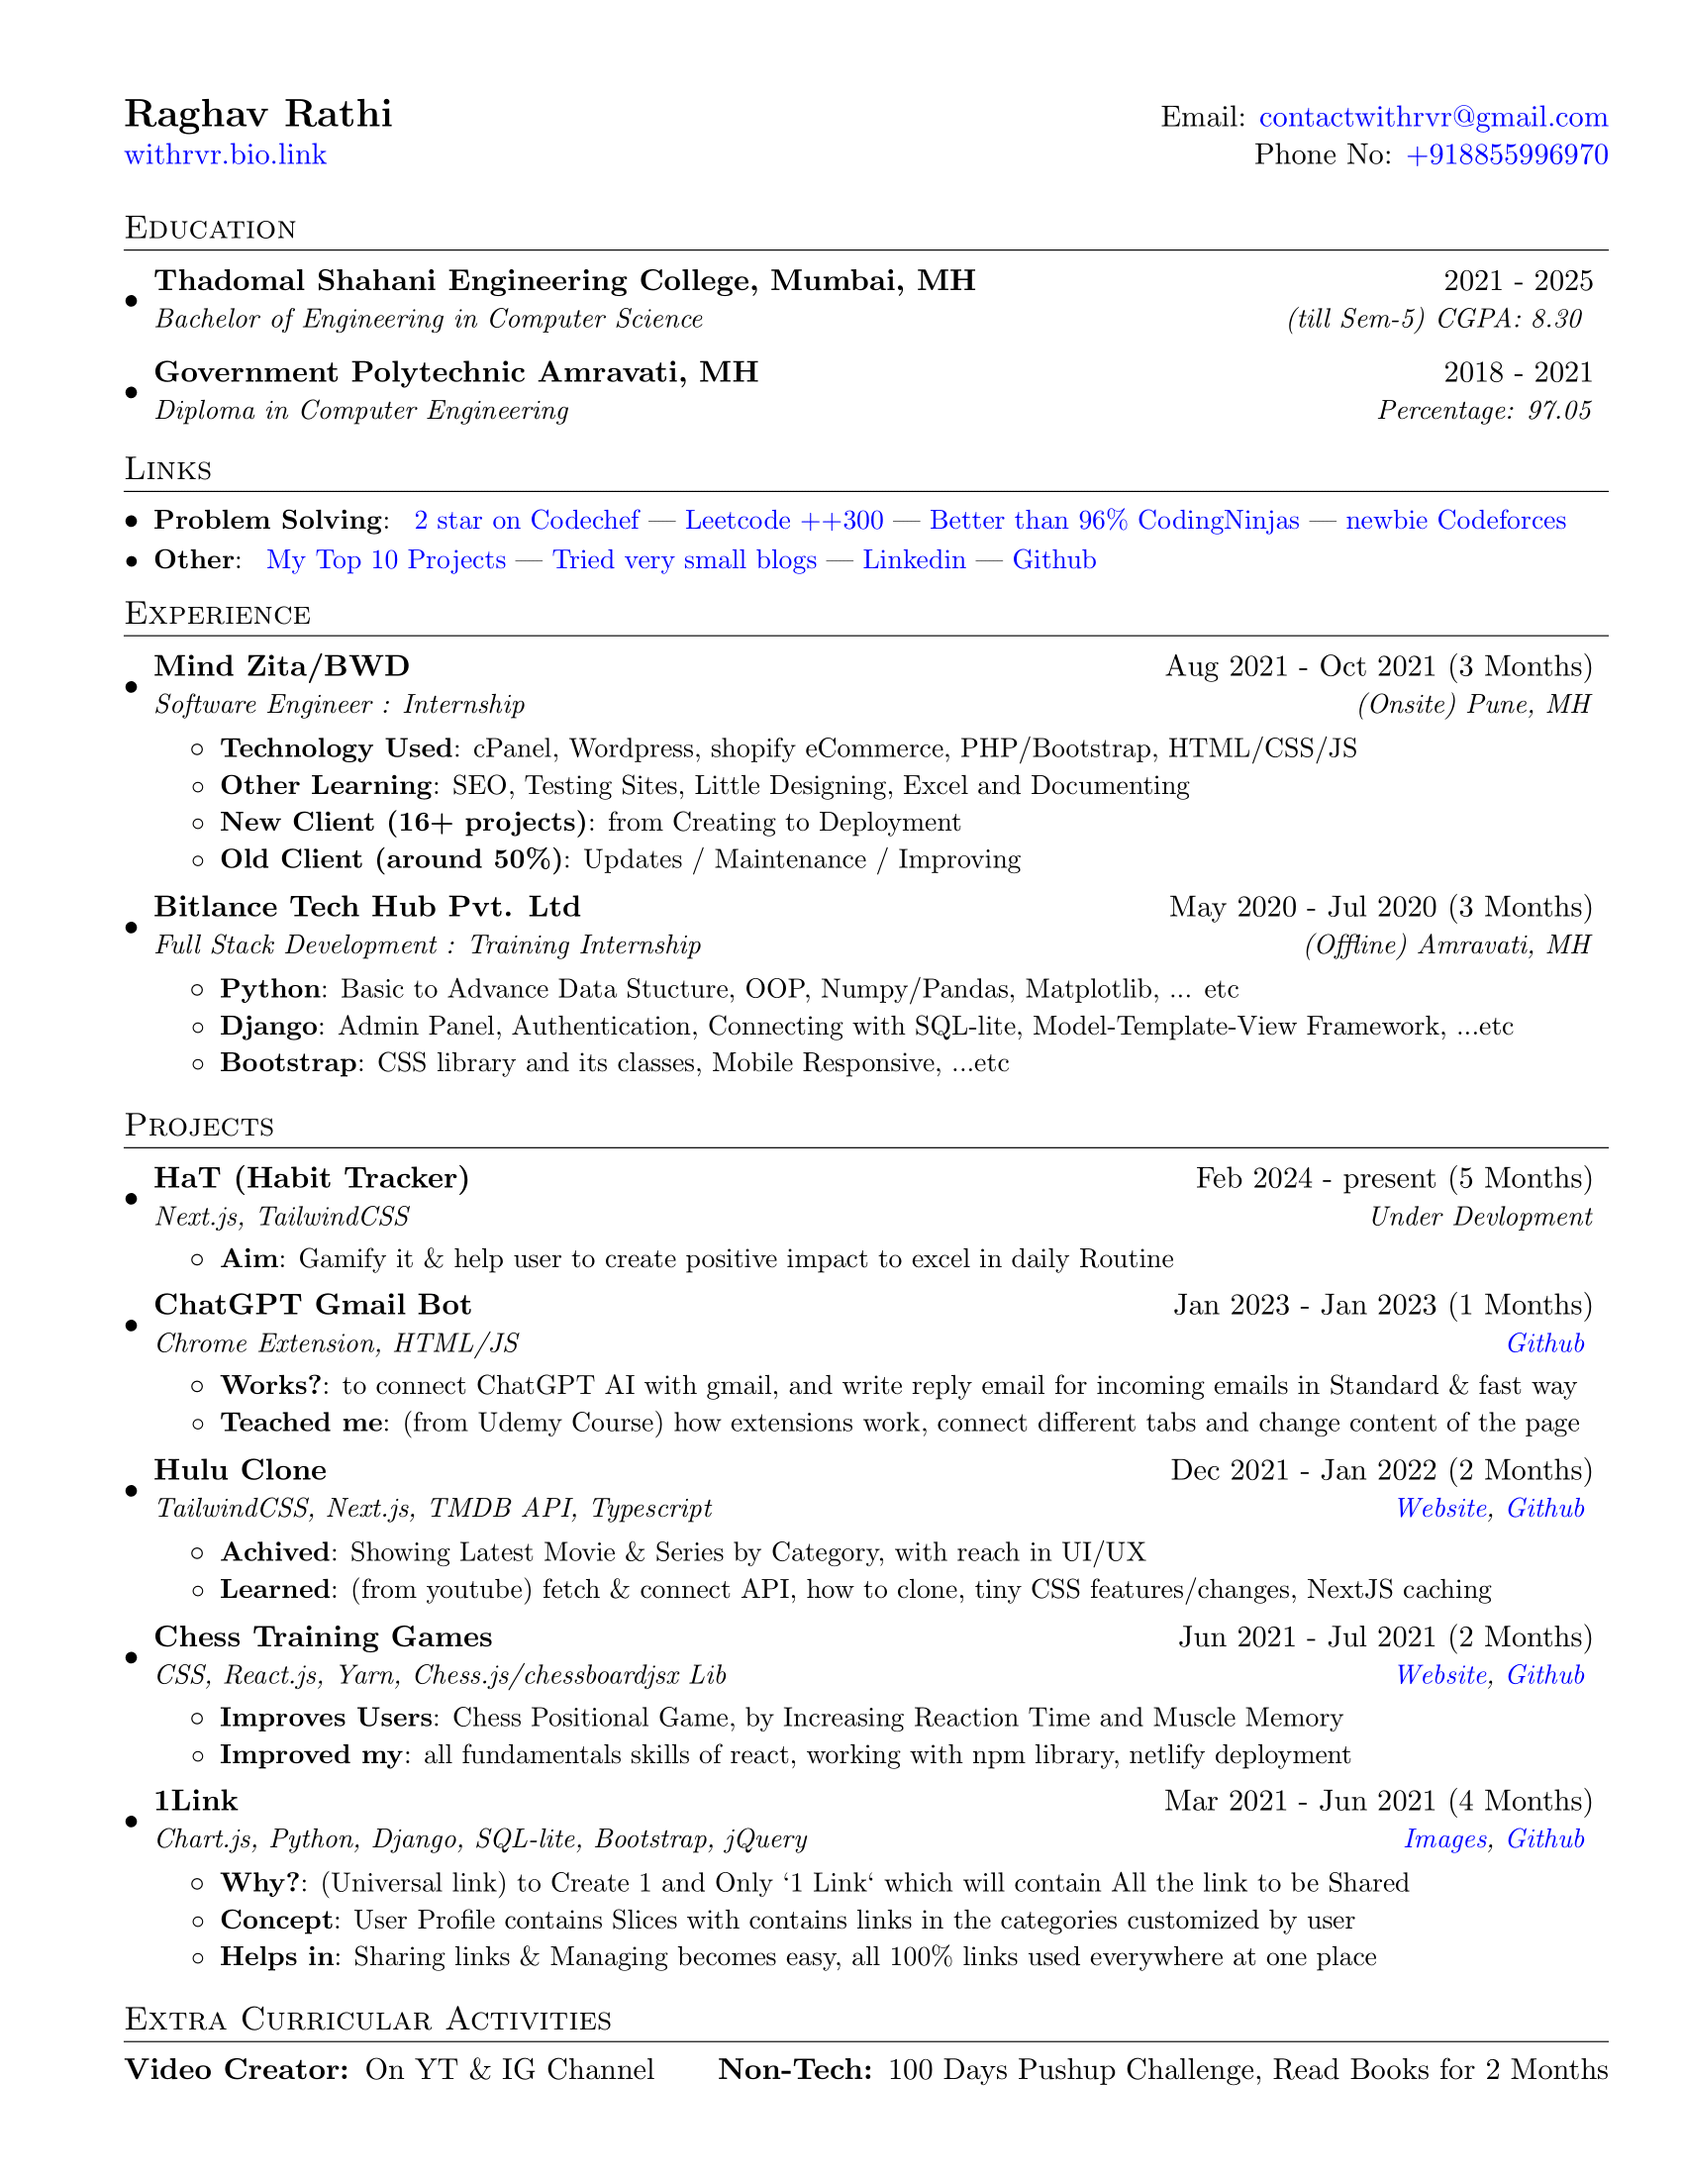
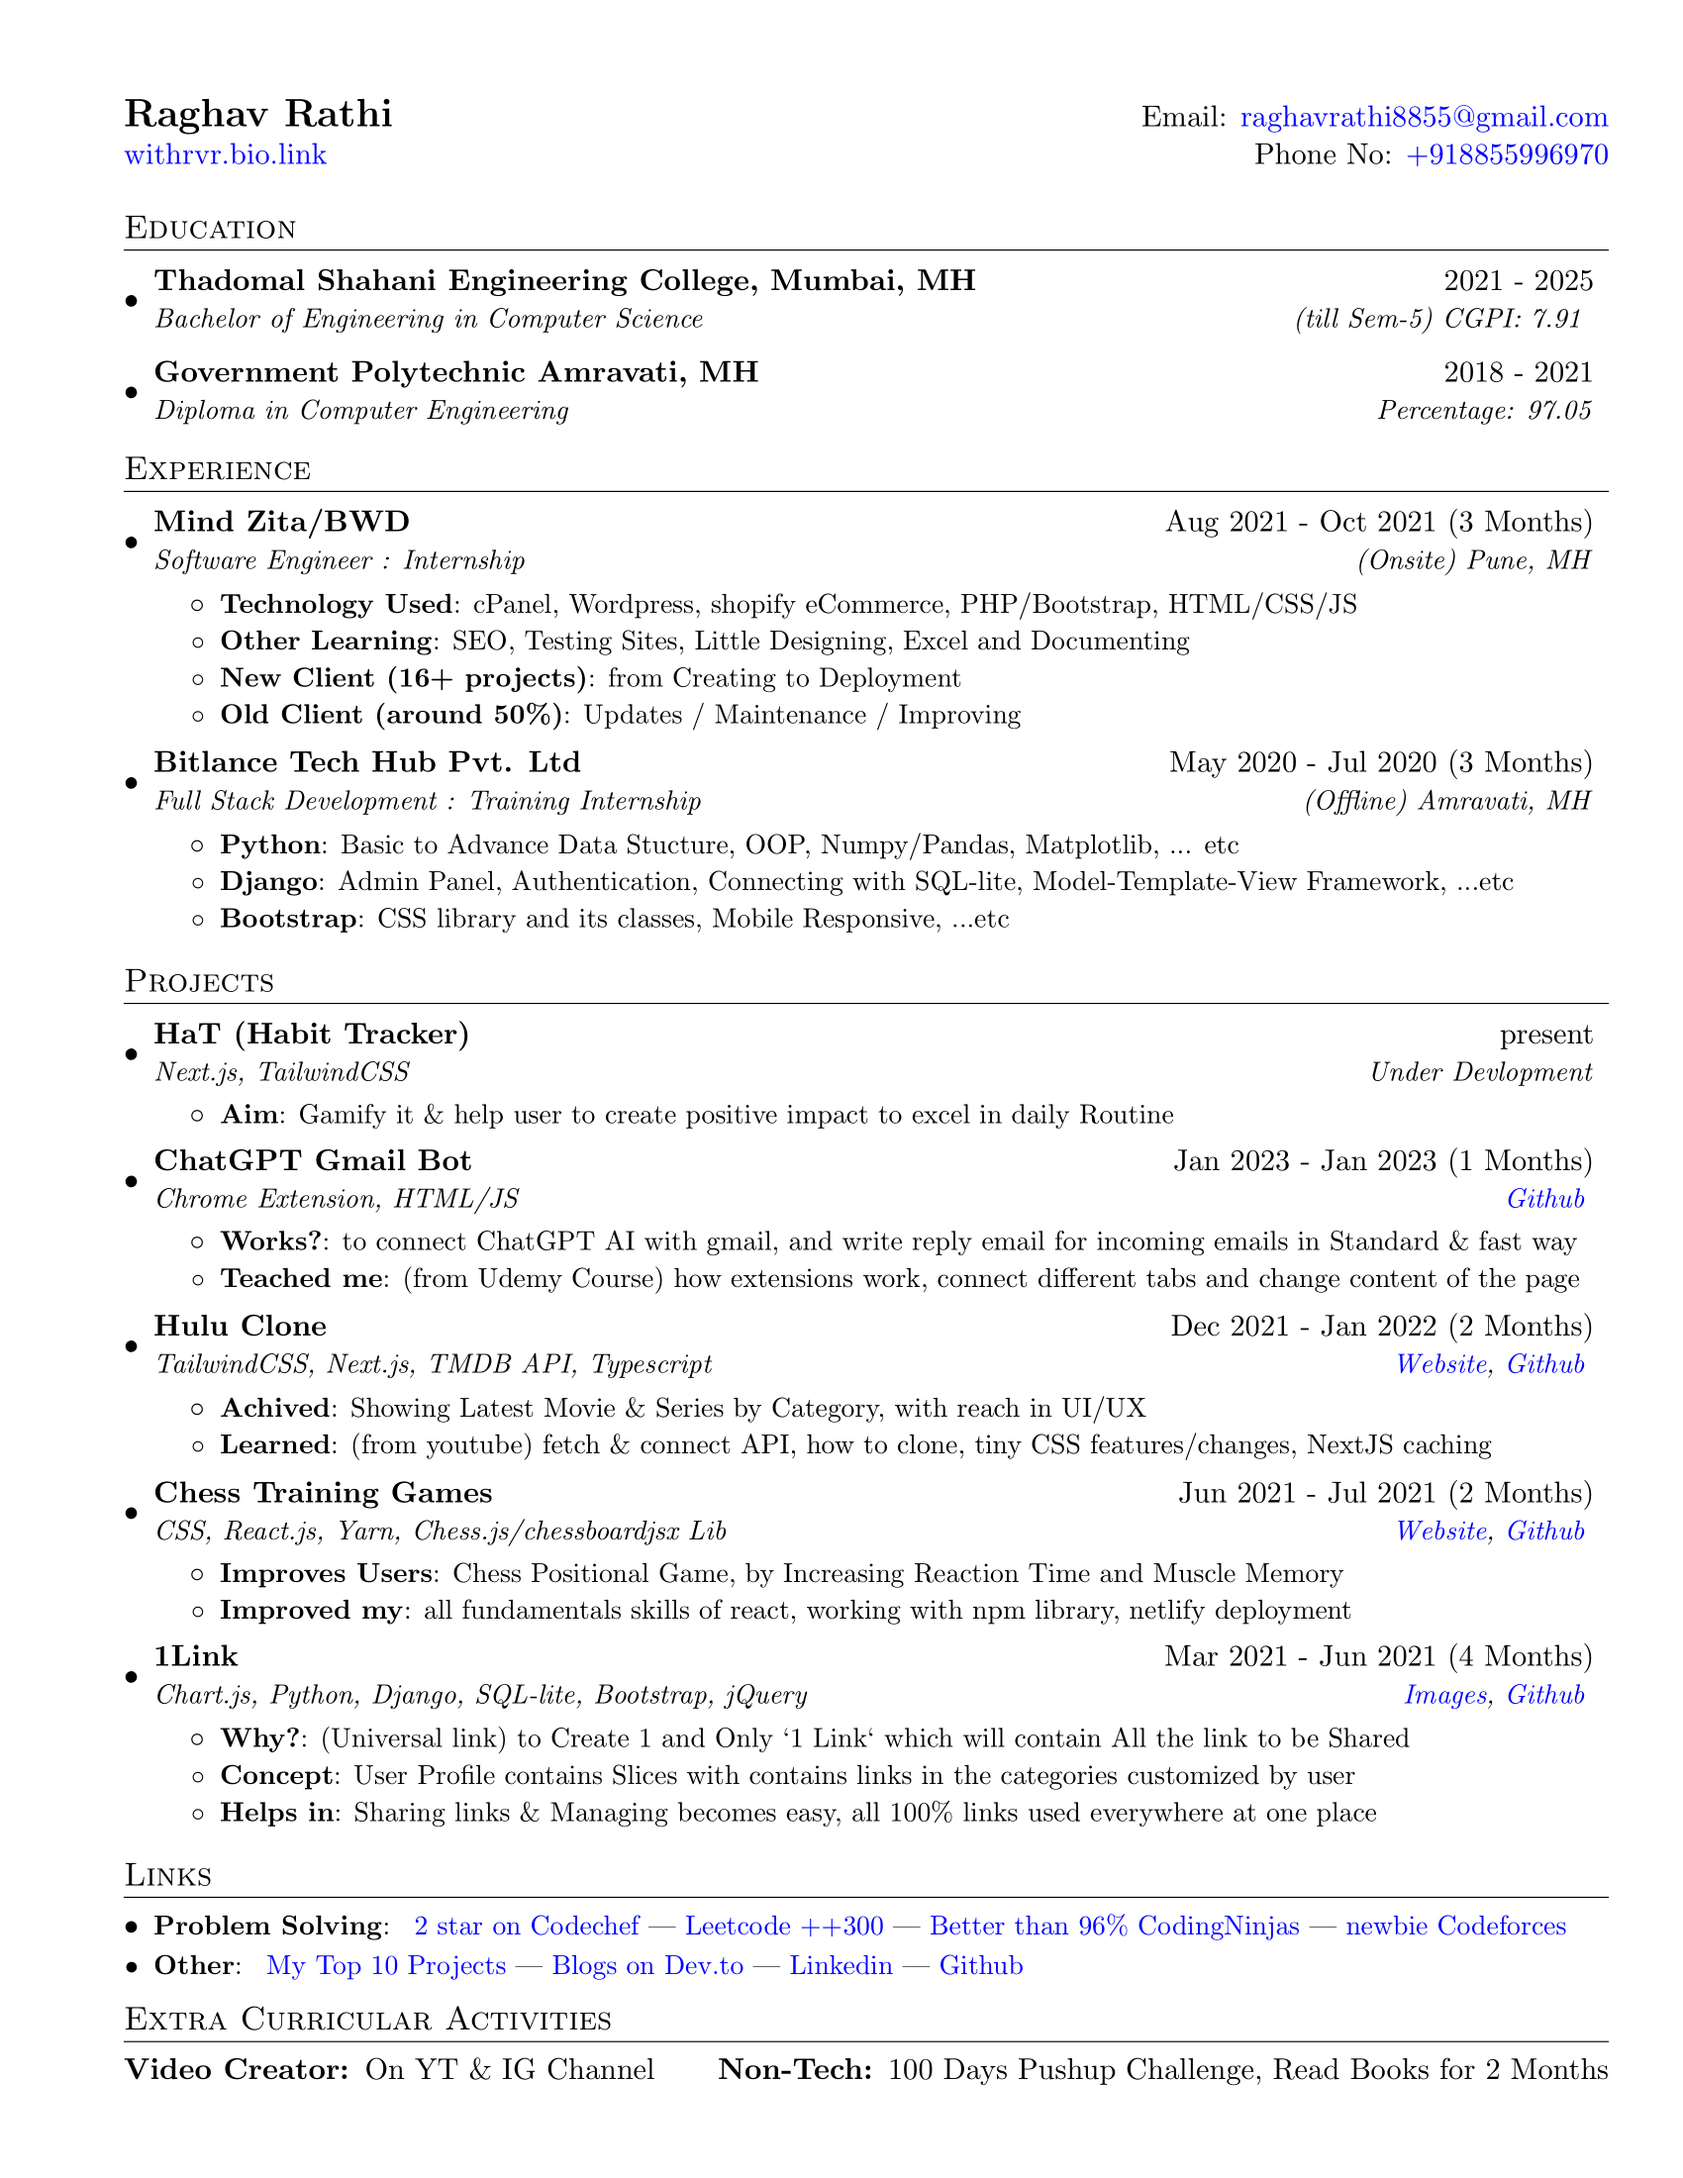
cgpi / mail

diff --git a/new_1page/Raghav Rathi @withrvr Resume.tex b/new_1page/Raghav Rathi @withrvr Resume.tex
@@ -87,7 +87,7 @@
 
 %----------HEADING-----------------
 \begin{tabular*}{\textwidth}{l@{\extracolsep{\fill}}r}
-  \textbf{\Large Raghav Rathi} & Email: \href{mailto:contactwithrvr@gmail.com}{contactwithrvr@gmail.com}\\
+  \textbf{\Large Raghav Rathi} & Email: \href{mailto:raghavrathi8855@gmail.com}{raghavrathi8855@gmail.com}\\
   \href{https://withrvr.bio.link/}{withrvr.bio.link} & Phone No: \href{tel:+918855996970}{+918855996970} \\
 \end{tabular*}
 
@@ -97,32 +97,11 @@
   \resumeSubHeadingListStart
     \resumeSubheading
       {Thadomal Shahani Engineering College, Mumbai, MH}{2021 - 2025}
-      {Bachelor of Engineering in Computer Science }{(till Sem-5) CGPA: 8.30 }
+      {Bachelor of Engineering in Computer Science }{(till Sem-5) CGPI: 7.91 }
     \resumeSubheading
       {Government Polytechnic Amravati, MH}{2018 - 2021}
       {Diploma in Computer Engineering}{Percentage: 97.05}
   \resumeSubHeadingListEnd
-
-
-
-
-%
-%--------LINKS------------
-\section{Links}
- \resumeSubHeadingListStart
-   \resumeSubItem{Problem Solving}{
-   \href{https://www.codechef.com/users/withrvr}{2 star on Codechef} | 
-   \href{https://leetcode.com/withrvr/}{Leetcode ++300} | 
-   \href{https://www.codingninjas.com/studio/profile/withrvr}{Better than 96\% CodingNinjas} | 
-   \href{https://codeforces.com/profile/withrvr}{newbie Codeforces}
-   }
-   \resumeSubItem{Other}{
-   \href{https://github.com/stars/withrvr/lists/projects}{My Top 10 Projects} | 
-   \href{https://dev.to/withrvr}{Tried very small blogs} | 
-   \href{https://www.linkedin.com/in/withrvr/}{Linkedin} | 
-   \href{https://www.github.com/withrvr/}{Github}
-   }
- \resumeSubHeadingListEnd
 
 
 
@@ -169,7 +148,7 @@
 
 
     \resumeSubheading
-      {HaT (Habit Tracker)}{Feb 2024 - present  (5 Months)}
+      {HaT (Habit Tracker)}{present}
       {Next.js, TailwindCSS}{Under Devlopment}
       \resumeItemListStart
         \resumeItem{Aim}
@@ -262,6 +241,31 @@
 
 
 
+
+%
+%--------LINKS------------
+\section{Links}
+ \resumeSubHeadingListStart
+   \resumeSubItem{Problem Solving}{
+   \href{https://www.codechef.com/users/withrvr}{2 star on Codechef} | 
+   \href{https://leetcode.com/withrvr/}{Leetcode ++300} | 
+   \href{https://www.codingninjas.com/studio/profile/withrvr}{Better than 96\% CodingNinjas} | 
+   \href{https://codeforces.com/profile/withrvr}{newbie Codeforces}
+   }
+   \resumeSubItem{Other}{
+   \href{https://github.com/stars/withrvr/lists/projects}{My Top 10 Projects} | 
+   \href{https://dev.to/withrvr}{Blogs on Dev.to} | 
+   \href{https://www.linkedin.com/in/withrvr/}{Linkedin} | 
+   \href{https://www.github.com/withrvr/}{Github}
+   }
+ \resumeSubHeadingListEnd
+
+
+
+
+
+
+
 %
 %--------Extracurricular Activity------------
 \section{Extra Curricular Activities}
@@ -274,6 +278,9 @@
    % \resumeSubItem{Video Creator}{On YT and IG Channels}
    % \resumeSubItem{Non-Tech}{100 Days Push Challenge on IG, Reading Book daily for 2 months}
  % \resumeSubHeadingListEnd
+
+
+
 
 
 
